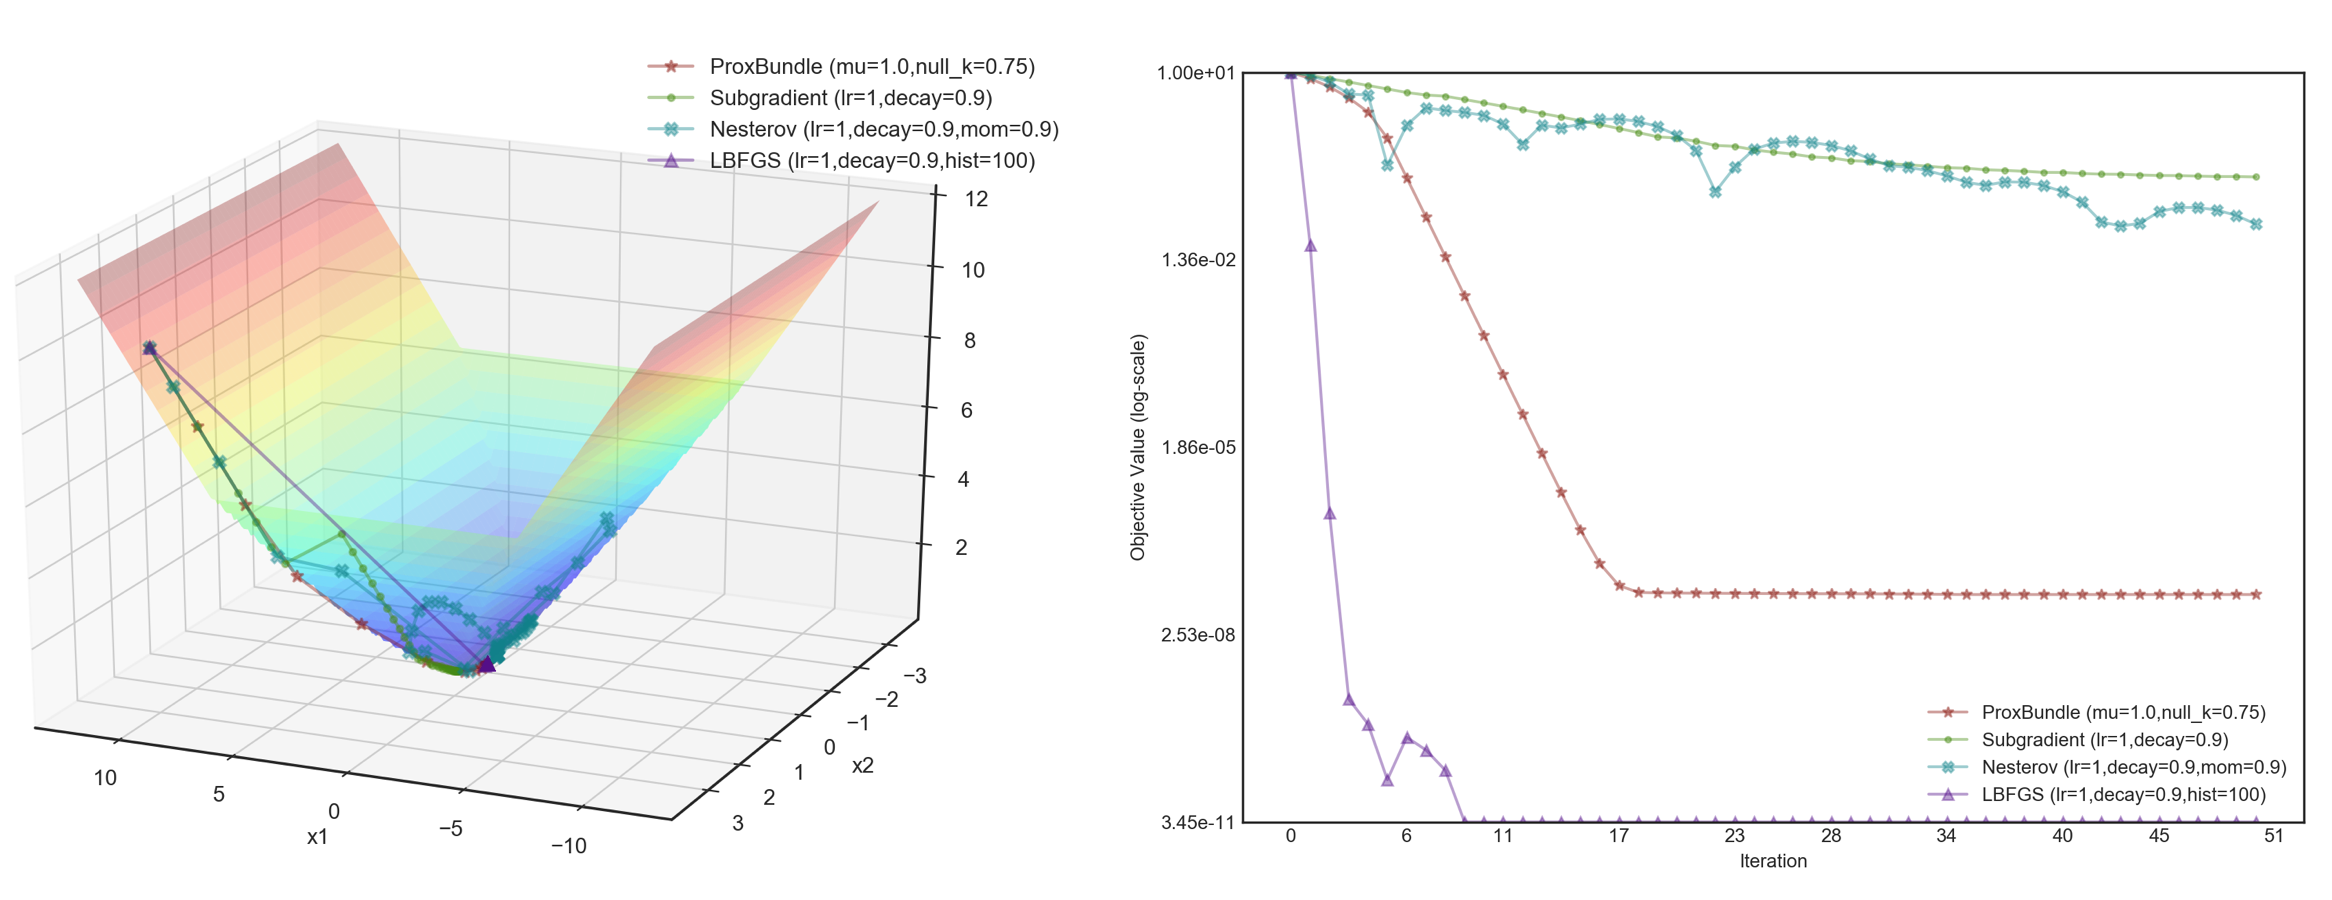
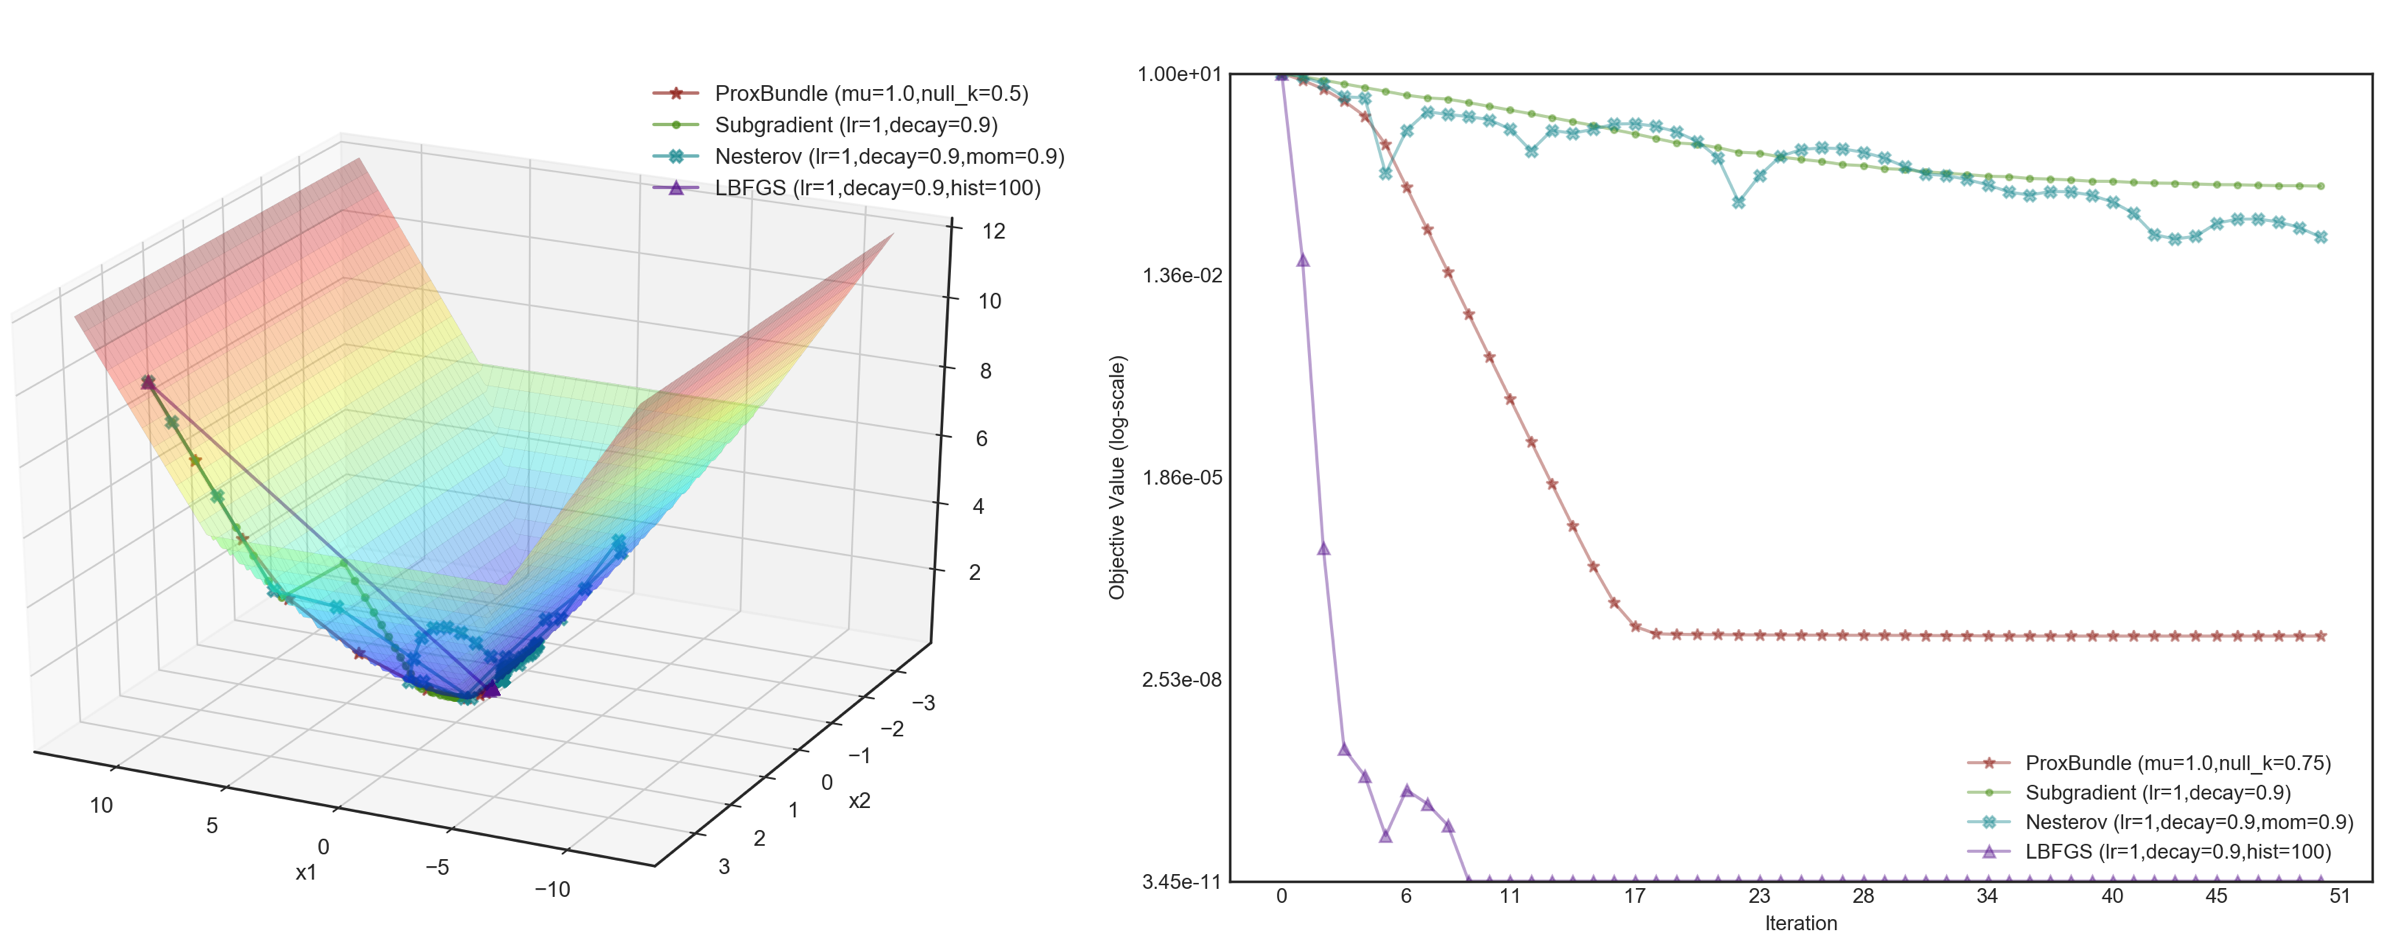
better plots

diff --git a/vis/visualize.py b/vis/visualize.py
@@ -116,6 +116,7 @@ class OptPlot:
         #Plot objective
         fig = plt.figure(figsize = (10,10))
         ax  = fig.add_subplot(111, projection='3d')
+        ax.plot_wireframe(x1_grid,x2_grid,fx_grid, rstride=5, cstride=5, alpha=0.3, linewidths=0.1, colors='black')
         ax.plot_surface(x1_grid,x2_grid,fx_grid,rstride = 5, cstride = 5, cmap = 'jet', alpha = .3, edgecolor = 'none' )
         ax.set_xlabel('x1')
         ax.set_ylabel('x2')
@@ -128,7 +129,7 @@ class OptPlot:
         for alg in self.opt_algs:
             alg.path_x[:,0]
             ax.plot(alg.path_x[:,0],alg.path_x[:,1], alg.path_fx,
-                    color = next(palette), marker = next(markers), alpha = .4, label = alg.name)
+                    color = next(palette), marker = next(markers), alpha = .6, label = alg.name)
         plt.legend()
         plt.show()
         
